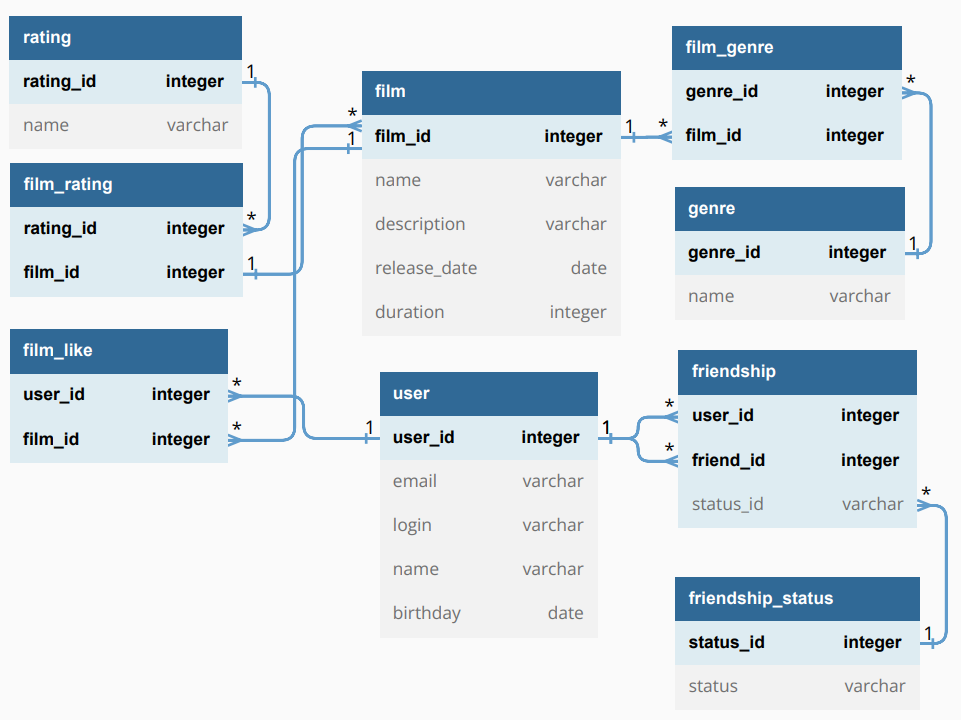
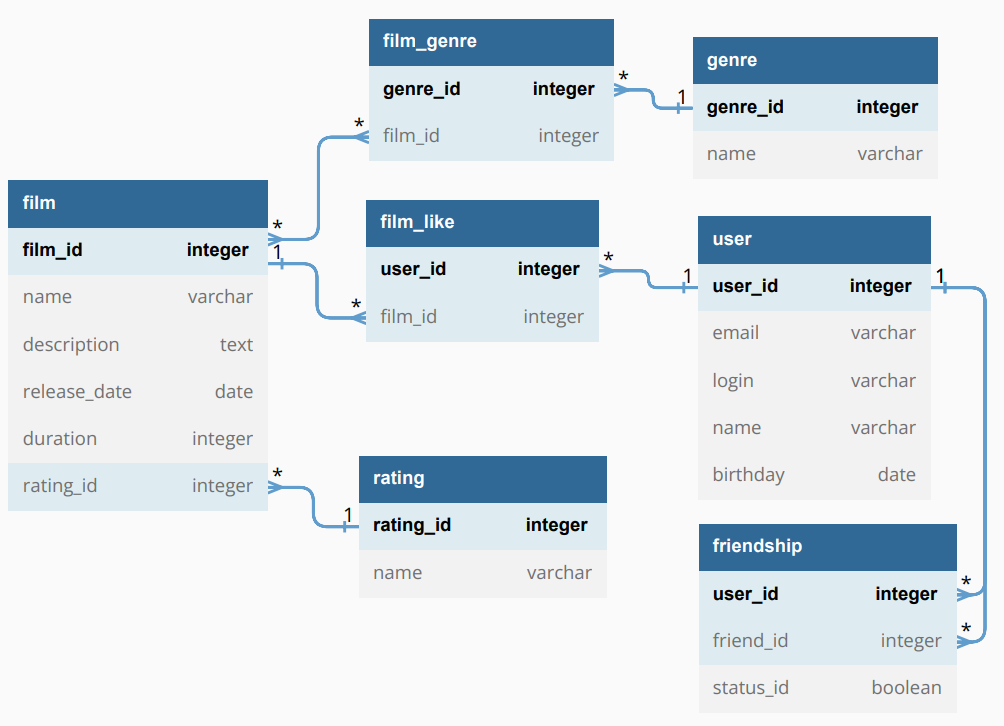
docs: change the README.md and SQL diagram

diff --git a/README.md b/README.md
@@ -2,7 +2,7 @@
 Repository for Filmorate project.
 
 ## Sql-диаграмма и пояснения к ней
-![SQL](https://raw.githubusercontent.com/Blinnik/java-filmorate/e3e9f65fad6310c97c479a30c265b6ca35550098/filmorate_sql.png)
+![SQL](filmorate_sql.png)
 
 ### ***film***
 Содержит данные о фильме.
@@ -11,13 +11,14 @@ Repository for Filmorate project.
 * _name_ — название фильма;
 * _description_ — описание фильма;
 * _release_date_ — дата релиза;
-* _duration_ — длительность (в минутах).
+* _duration_ — длительность (в минутах);
+* _rating_id_ — идентификатор рейтинга.
 
 ### ***film_like***
 Содержит данные о лайках, поставленных фильму.
 Таблица включает такие поля:
-* первичный ключ _like_id_ — идентификатор лайка;
-* _film_id_ — идентификатор фильма.
+* первичный ключ _user_id_ — идентификатор пользователя, поставившего лайк;
+* внешний ключ _film_id_ — идентификатор фильма.
 
 ### ***genre***
 Содержит информацию о жанрах кино.
@@ -29,19 +30,13 @@ Repository for Filmorate project.
 Содержит данные о жанрах, указанных фильму.
 Таблица включает такие поля:
 * первичный ключ _genre_id_ — идентификатор лайка;
-* _film_id_ — идентификатор фильма.
+* внешний ключ _film_id_ — идентификатор фильма.
 
 ### ***rating***
 Содержит информацию о рейтинге Ассоциации кинокомпаний.
 В таблицу входят поля:
 * первичный ключ _rating_id_ — идентификатор рейтинга;
 * _name_ — название рейтинга.
-
-### ***film_rating***
-Содержит данные о рейтинге, которому соответствует фильм.
-Таблица включает такие поля:
-* первичный ключ _rating_id_ — идентификатор рейтинга;
-* _film_id_ — идентификатор фильма.
 
 ### ***user***
 Содержит данные о пользователе.
@@ -56,8 +51,8 @@ Repository for Filmorate project.
 Содержит информацию о дружбе между двумя пользователями.
 В таблицу входят поля:
 * первичный ключ _user_id_ — идентификатор пользователя;
-* _friend_id_ — идентификатор друга пользователя;
-* _status_id_ — идентификатор статуса.
+* внешний ключ _friend_id_ — идентификатор друга пользователя;
+* _status_id_ — идентификатор статуса (false — неподтвержденная дружба, true — подтвержденная).
 
 Пример запроса к таблице friendship (вывод всех друзей пользователя с id = 1)
 ```
@@ -69,10 +64,17 @@ GROUP BY user_id
 
 При реализации логики приложения необходимо учитывать, что таблица работает в обе стороны.
 Если пользователь добавляет друга, дружба становится неподтвержденной.
-Чтобы статус дружбы изменился на "подтвержденная", друг взаимно должен добавить пользователя
+Чтобы статус дружбы изменился на "подтвержденная", друг взаимно должен добавить пользователя.
 
-### ***friendship_status***
-Содержит данные о статусе дружбы.
-Таблица включает такие поля:
-* первичный ключ _status_id_ — идентификатор статуса;
-* _status_ — статус (подтвержденная/неподтвержденная дружба).
+### Описание связей между таблицами
+#### film.film_id < film_like.film_id > user.user_id
+Фильму могут поставить лайки несколько пользователей, один пользователь может поставить несколько лайков разным фильмам.
+Реализация связи "многие ко многим" с помощью вспомогательной таблицы film_like.
+#### film.film_id < film_genre.film_id > genre.genre_id
+Одному фильму соответствует несколько жанров, одному жанру могут соответствовать несколько фильмов.
+Реализация связи "многие ко многим" с помощью вспомогательной таблицы film_genre.
+#### rating.film_id < film.film_id
+Одному рейтингу могут принадлежать несколько фильмов, но у одного фильма не может быть несколько рейтингов.
+#### user.user_id < friendship.user_id > user.user_id
+У одного пользователя может быть несколько друзей, одна дружба может быть у нескольких пользователей.
+Реализация связи "многие ко многим" с помощью вспомогательной таблицы friendship.
